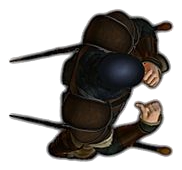
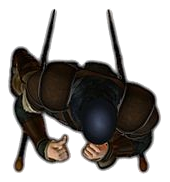
Tokens: zumbi, bárbaro, soldado e um marcador de corpo caído
Importados de tokens/nao-catalogados/, com fundo e sombra recortados e orientados
para o sul:

- zumbi-agachado-camisa-marrom — serve como Morto-Vivo 1 da campanha;
- barbaro-dreadlocks-machado-longo;
- soldado-elmo-duas-lancas.

E marcador-corpo-caido, desenhado para o projeto: silhueta de humano deitado sobre
poça, ocupando 2 hexágonos como manda o livro. Não é arte de terceiros e não
representa ninguém em particular — serve para marcar quem ficou no chão.

Ficou de fora max.png: é prévia do Roll20, com marca d'água por cima da figura.

Claude-Session: https://claude.ai/code/session_01GjkTa8i6h5wZRsGXSDHXKj

diff --git a/tokens/CATALOGO.md b/tokens/CATALOGO.md
@@ -23,6 +23,7 @@ Não redistribuir.
 | `arqueiro-elmo-arco-e-espada.png` | Arqueiro de elmo com arco composto e espada às costas | 278×236 | 90° ↺ | [br.pinterest.com](https://br.pinterest.com/pin/363665738644330417/) |
 | `arqueiro-ruivo-arco-longo.png` | Arqueiro ruivo com arco longo e aljava | 436×461 | 180° ↻ | [br.pinterest.com](https://br.pinterest.com/pin/363665738644330417/) |
 | `assassina-adagas-capa-preta.png` | Assassina de capa preta com duas adagas e mecha branca no cabelo | 350×306 | — | [br.pinterest.com](https://br.pinterest.com/pin/363665738644330417/) |
+| `barbaro-dreadlocks-machado-longo.png` | Bárbaro de pele escura e dreadlocks longos, torso tatuado, colete e tanga de couro escuro, empunhando um machado de haste longa apoiado no ombro | 292×264 | — | importado de tokens/nao-catalogados/barbarian-token.png |
 | `campones-foice-e-feixes.png` | Camponês de turbante com foice e feixes de cereal | 214×228 | — | [br.pinterest.com](https://br.pinterest.com/pin/363665738644330417/) |
 | `cavaleira-placa-espada-e-escudo-dourado.png` | Cavaleira de placa prateada, cabelo ruivo, espada e escudo redondo dourado | 445×617 | 70° ↺ | [br.pinterest.com](https://br.pinterest.com/pin/363665738644330417/) |
 | `cavaleiro-capa-vermelha-escudo-cruz.png` | Cavaleiro loiro de placa, capa vermelha, lança e escudo negro com cruz dourada | 722×607 | — | [br.pinterest.com](https://br.pinterest.com/pin/363665738644330417/) |
@@ -38,8 +39,21 @@ Não redistribuir.
 | `humanoide-capuz-lanterna.png` | Humanoide pequeno de capuz marrom com lanterna cilíndrica | 393×344 | — | [br.pinterest.com](https://br.pinterest.com/pin/363665738644330417/) |
 | `ladino-capuz-azul.png` | Ladino de capuz e capa azul, agachado, sem arma visível | 354×331 | — | [br.pinterest.com](https://br.pinterest.com/pin/363665738644330417/) |
 | `mago-cetro-manto-bege.png` | Mago de manto bege e cetro, visto de cima | 191×230 | 90° ↻ | [br.pinterest.com](https://br.pinterest.com/pin/363665738644330417/) |
-| `monge-touca-cacetes.png` | Monge de touca escura com dois cacetes | 182×170 | 90° ↻ | [br.pinterest.com](https://br.pinterest.com/pin/363665738644330417/) |
+| `monge-touca-cacetes.png` | Monge de touca escura com dois cacetes | 170×182 | 90° ↻ | [br.pinterest.com](https://br.pinterest.com/pin/363665738644330417/) |
 | `paladino-placa-dourada-maca-e-escudo.png` | Paladino de placa dourada, capa branca, maça e escudo com asa | 400×323 | — | [br.pinterest.com](https://br.pinterest.com/pin/363665738644330417/) |
+| `soldado-elmo-duas-lancas.png` | Soldado de elmo escuro arredondado e traje de couro marrom, visto de cima, empunhando duas armas de haste com as pontas à frente | 170×182 | — | importado de tokens/nao-catalogados/c4d58075c41a2510faaba7fe36162ab7.jpg |
 | `soldado-elmo-escudo-dragao.png` | Soldado de elmo, cota vermelha, espada e escudo cinza com dragão negro | 192×203 | — | [br.pinterest.com](https://br.pinterest.com/pin/363665738644330417/) |
 
-**25 token(s) catalogado(s).**
+## Mortos-vivos
+
+| Token | Descrição | Tamanho | Girado | Origem |
+|---|---|---|---|---|
+| `zumbi-agachado-camisa-marrom.png` | Zumbi de pele acinzentada e ferida na testa, camisa marrom rasgada e calça cinza, agachado sobre as mãos, boca aberta, encarando quem olha | 331×423 | — | importado de tokens/nao-catalogados/FQ5o7KxXwAE_Lg9.png |
+
+## Objetos e marcadores
+
+| Token | Descrição | Tamanho | Girado | Origem |
+|---|---|---|---|---|
+| `marcador-corpo-caido.png` | Marcador de corpo caído: silhueta escura de um humano deitado, braços abertos, sobre poça de sangue. Não representa ninguém em particular | 300×560 | — | desenhado para o projeto (PIL), não é arte de terceiros |
+
+**29 token(s) catalogado(s).**
